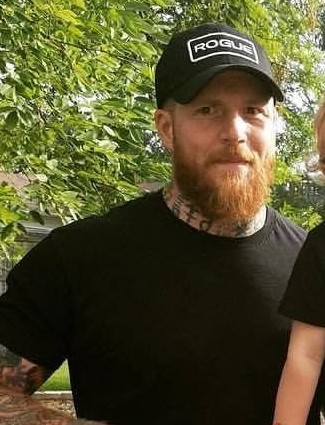
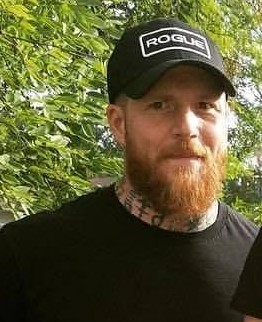
Tighten Jacob Kenison's photo crop and add his arrest date
- Recrops his photo to a tighter head-and-shoulders portrait
- Records his arrest date (February 1997; anchored to the 1st as only the
  month is documented in the news coverage)

Loader changes: fills in a missing case arrest_date, and re-syncs a
committed local photo_file each run so an updated crop replaces the
stored image.

Claude-Session: https://claude.ai/code/session_01R8evXJgfk85LbDQLSna2pT

diff --git a/app/Console/Commands/AddAlf1998Prisoners.php b/app/Console/Commands/AddAlf1998Prisoners.php
@@ -88,8 +88,9 @@ class AddAlf1998Prisoners extends Command
                 $this->attachPhoto($prisoner, $r['photo_url']);
             }
 
-            // Or copy a committed local photo file (used when no stable URL exists).
-            if (! empty($r['photo_file']) && empty($prisoner->photo)) {
+            // Copy a committed local photo file (authoritative; re-synced each
+            // run so an updated crop replaces the stored image).
+            if (! empty($r['photo_file'])) {
                 $this->attachLocalPhoto($prisoner, $r['photo_file']);
             }
 
@@ -122,6 +123,12 @@ class AddAlf1998Prisoners extends Command
             }
             if ($inst && empty($case->institution_id)) {
                 $case->institution_id = $inst->id;
+                $case->save();
+            }
+
+            // Fill in a missing arrest date.
+            if (! empty($r['arrest_date']) && empty($case->arrest_date)) {
+                $case->arrest_date = $r['arrest_date'];
                 $case->save();
             }
 
